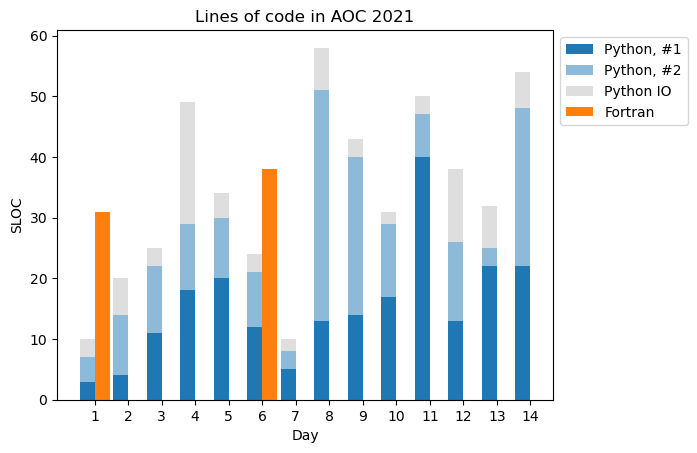
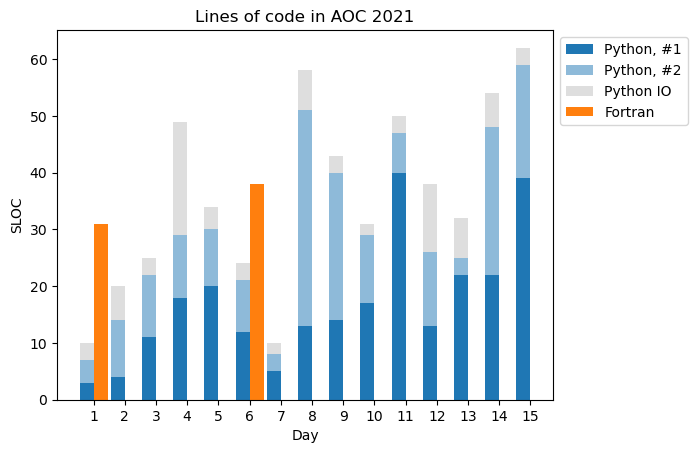
Day 15

diff --git a/15/day15.py b/15/day15.py
@@ -7,81 +7,89 @@ Created on Wed Dec 15 09:48:22 2021
 
 import numpy as np
 
-with open('test.txt', mode='r') as f:
+with open('input.txt', mode='r') as f:
     data = np.array([[int(c) for c in list(l.strip())] for l in f.readlines()])
     
+# part 1    
+
 n_r = len(data)
 n_c = len(data[0])
 
-def t2a(tup):
-    return (np.array([t[0] for t in tup]), np.array([t[1] for t in tup]))
+def get_neighbors_next(pt):
+    return get_neighbors(pt, dirs = [(1, 0), (0, 1)])    
 
-def get_neighbors(pt):
+def get_neighbors_prev(pt):
+    return get_neighbors(pt, dirs = [(-1, 0), (0, -1)])
+
+def get_neighbors(pt, dirs = [(1, 0), (0, 1), (-1, 0), (0, -1)]):
     r, c = pt
     n = []
     
-    for dr, dc in [(1, 0), (0, 1), (-1, 0), (0, -1)]:
+    for dr, dc in dirs:
         if r + dr >= 0 and r + dr < n_r and c + dc >= 0 and c + dc < n_c:
             n.append((r + dr, c + dc))
     
     return n
 
-top_left = (0, 0)
-bottom_right = (n_r - 1, n_c - 1)
-
-def show(grid):
-    m0 = max([p[0] for p in grid])
-    m1 = max([p[1] for p in grid])
-    for y in range(m1 + 1):
-        s = ''
-        for x in range(m0 + 1):
-            if (y, x) in grid:
-                s += '{}'.format(data[y, x])
-            else:
-                s += ' '
-        print(s)
-
-def get_string(init_pt, target_pt, path):
-    stairs = [(1, 0), (0, 1)]
-    last = init_pt
-    i = 0
-    while last[0] != target_pt[0] or last[1] != target_pt[1]:
-        last = (last[0] + stairs[i % 2][0], last[1] + stairs[i % 2][1])
-        path.append(last)        
-        i += 1
-    return path
-
-def get_risk(path):
-    return np.sum(data[t2a(path)])  - data[0,0]
-
-def update(path, risk):
-    for i in range(len(path) - 2):
-        n_0 = set(get_neighbors(path[i]))
-        n_2 = set(get_neighbors(path[i + 2]))
-        common = n_0.intersection(n_2)
-        updates = [(path, risk)]
-        for n_1 in common:
-            new_path = list(path)
-            new_path[i + 1] = n_1
-            updates.append((new_path, get_risk(new_path)))
-
-        updates.sort(key=lambda r: r[1])
-                
-        if updates[0][1] < risk:
-            return updates[0]
-    return (path, risk)
-
-path = get_string(top_left, bottom_right, [top_left])
-risk = get_risk(path)
-
-
-while True:
-    result = update(path, risk)
-    if risk == result[1]:
-        break
+def seed(data):
+    n_r = len(data)
+    n_c = len(data[0])
     
-    path = result[0]
-    risk = result[1]
+    minima = np.zeros(np.shape(data), dtype=int)   
     
-show(path)
-print(risk)
+    for d in range(1, 2 * n_c - 1):
+        pt = (d, 0)
+        for i in range(d + 1):
+            if pt[0] < n_r and pt[1] < n_c:
+                minima[pt[0], pt[1]] = min([minima[n[0],n[1]] + data[pt[0],pt[1]] for n in get_neighbors_prev(pt)])
+            pt = (pt[0] - 1, pt[1] + 1)
+    return minima
+
+def settle(minima):
+    while True:
+        flips = 0
+        for r in range(0, n_r):
+            for c in range(0, n_c):
+                pt = (r, c)
+                for n in get_neighbors(pt):
+                    if minima[r, c] > minima[n[0], n[1]] + data[r, c]:
+                        minima[r, c] = minima[n[0], n[1]] + data[r, c]
+                        flips += 1
+        if flips == 0:
+            break
+        
+minima = seed(data)
+settle(minima)
+
+print(minima[-1,-1])
+
+# part 2
+
+def get_part_2(data):
+    data_2 = np.zeros((n_r*5, n_c*5), dtype=int)
+    data_2[0:n_r,0:n_c] = data
+    
+    temp = np.array(data)
+    
+    for r in range(1, 5):
+        temp = temp + 1
+        temp[temp == 10] = 1
+        data_2[n_r * r:n_r * (r + 1),0:n_c] = temp
+    
+    temp = data_2[:,0:n_c]
+    
+    for c in range(1, 5):
+        temp = temp + 1
+        temp[temp == 10] = 1
+        data_2[:,n_c * c:n_c * (c + 1)] = temp
+
+    return data_2
+
+data = get_part_2(data)
+n_r = len(data)
+n_c = len(data[0])
+
+minima = seed(data)
+settle(minima)
+
+print(minima[-1,-1])
